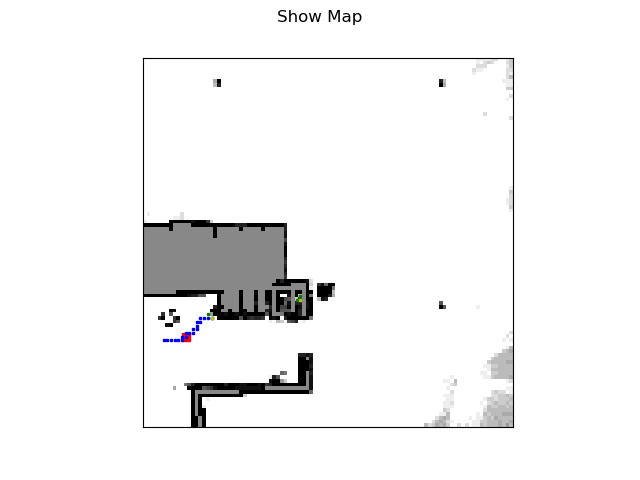
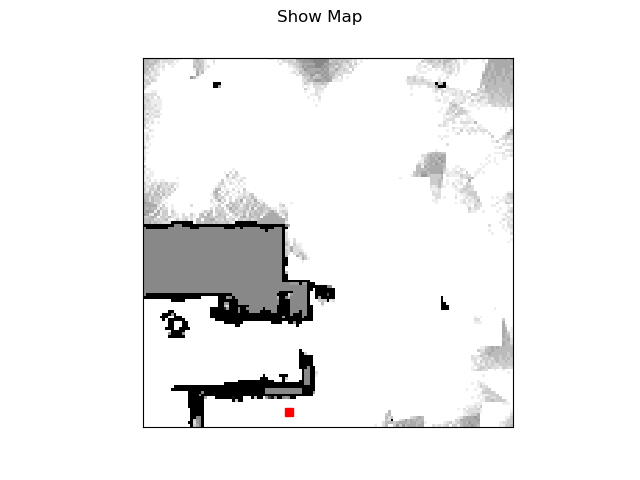
version finale 2.0 ?

diff --git a/src/Cartographer.py b/src/Cartographer.py
@@ -11,7 +11,7 @@ class Cartographer:
     """
 
     def __init__(self, xMin, xMax, yMin, yMax, showGUI):
-        self.CELL_SIZE = 0.4
+        self.CELL_SIZE = 0.3
         self.EMPTY = 0
         self.OCCUPIED = 1
         self.UNKNOWN = -1
@@ -21,6 +21,7 @@ class Cartographer:
         self.OCCUPIED_THRESHOLD = 7
         self.LASER_MAX_DISTANCE = 10
         self.LASER_MAX_ANGLE = 50
+        self.ROBOT_WIDTH = 0.8
 
         self.xMin = xMin
         self.xMax = xMax
@@ -61,12 +62,43 @@ class Cartographer:
         else:
             return self.UNKNOWN
 
+    def getSquaresInCircle(self, center, radius):
+        squares = set()
+        toProcess = [self.getGridPosition(center)]
+        while len(toProcess) > 0:
+            square = toProcess.pop()
+            pos = self.getRealPosition(square)
+            if getDistance(pos, center) < radius:
+                squares.add(square)
+                for i in range(-1, 2):
+                    for j in range(-1, 2):
+                        neighbor = square[0] + i, square[1] + j
+                        if neighbor not in squares and not self.isOutOfBound(neighbor):
+                            toProcess.append(neighbor)
+        return squares
+
+    def increaseThickness(self, robot):
+        squares = self.getSquaresInCircle(robot.getPosition(), self.LASER_MAX_DISTANCE)
+        while len(squares) > 0:
+            square = squares.pop()
+            if self.getState(square) == self.OCCUPIED:
+                neighbors = self.getSquaresInCircle(self.getRealPosition(square), self.ROBOT_WIDTH)
+                squares -= neighbors
+                for neighbor in neighbors:
+                    if self.getState(neighbor) == self.OCCUPIED:
+                        path = pathToObstacle(square, neighbor)
+                        for (row, col) in path:
+                            self.map[row][col] = min(self.MAXVALUE, self.map[row][col] + 3)
+
     def update(self, robot):
         """
         Updates the map representation
         :param robot: Robot object
         """
+        if self.isOutOfBound(self.getGridPosition(robot.getPosition())):
+            return
         self.handleLasers(robot)
+        self.increaseThickness(robot)
         row, col = self.getGridPosition(robot.getPosition())
         self.showMap.updateMap(self.map, self.MAXVALUE, row, col)
 
@@ -112,6 +144,8 @@ class Cartographer:
                             neighborRow, neighborCol = x + i, y + j
                             if not self.isOutOfBound((neighborRow, neighborCol)):
                                 sum += self.map[neighborRow][neighborCol] * GROMask[1 + i][1 + j]
+                                # Increase thickness of obstacles
+                                # self.map[neighborRow][neighborCol] = min(self.MAXVALUE, self.map[neighborRow][neighborCol] + 3)
                     self.map[x][y] = min(self.MAXVALUE, sum)
                 else:
                     self.map[x][y] = max(self.MINVALUE, self.map[x][y] - 1)

diff --git a/src/Controller.py b/src/Controller.py
@@ -1,6 +1,6 @@
 from robot import Robot
 from Computations import *
-from math import pi
+from math import pi, atan2
 from numpy import sign
 from random import random
 import time
@@ -17,9 +17,9 @@ class Controller:
         self.alpha = 0
         self.v = 1
         # lookahead distance
-        self.L = 4
+        self.L = 2
         self.offset = 0
-        self.DISTANCE_UPDATE = 4
+        self.DISTANCE_UPDATE = 6
         self.distanceTravelled = 0
         self.LASER_ANGLE = 8
         self.OBSTACLE_MAX_DIST = 2
@@ -32,6 +32,16 @@ class Controller:
         If an obstacle is encountered, the robot is stopped
         :return:
         """
+        # pos = self.cartographer.getGridPosition(robot.getPosition())
+        # heading = robot.getHeading()
+        # angle = atan2(heading["Y"], heading["X"])
+        # neighbors = [(-2, 0), (-2, -2), (0, -2), (2, -2), (2, 0), (2, 2), (0, 2), (-2, 2)]
+        # index = (round(angle * 4 / pi) + 4) % 8
+        # headingSquare = pos[0] + neighbors[index][0], pos[1] + neighbors[index][1]
+        # if not self.cartographer.isOutOfBound(headingSquare) \
+        #         and self.cartographer.getState(headingSquare) == self.cartographer.OCCUPIED:
+        #     robot.setMotion(0, 0)
+        #     return True
         lasers = robot.getLaser()
         for i in range(len(lasers['Echoes']) // 2 - self.LASER_ANGLE,
                        len(lasers['Echoes']) // 2 + self.LASER_ANGLE):
@@ -117,6 +127,8 @@ class Controller:
         while run:
             robot.setMotion(0, 2 * pi * random())
             time.sleep(1)
+            robot.setMotion(0, 0)
+            self.cartographer.update(robot)
             if not self.checkObstacle(robot):
                 run = False
                 for _ in range(self.WANDERING_DISTANCE):
@@ -124,6 +136,5 @@ class Controller:
                     time.sleep(0.5)
                     robot.setMotion(0, 0)
                     self.checkDistanceTravelled(robot, self.OBSTACLE_MAX_DIST)
-                    robotPos = self.cartographer.getGridPosition(robot.getPosition())
-                    if self.checkObstacle(robot) or self.cartographer.isOutOfBound(robotPos):
+                    if self.checkObstacle(robot):
                         break

diff --git a/src/Navigator.py b/src/Navigator.py
@@ -20,6 +20,8 @@ class Navigator:
         :return: a list of neighboring squares (Von Neumann), robot position not included
         """
         wave = self.wave(robot, dest)
+        if not wave:
+            return None
         path = self.findPath(len(wave), wave, [dest])
         # If no path is found
         if not path:
@@ -80,6 +82,8 @@ class Navigator:
             nextLayer = self.cartographer.getNextLayer(nextLayer, inside)
             # remove redundant elements
             nextLayer = list(set(nextLayer))
+        if not nextLayer:
+            return None
         return wave
 
     def convertPath(self, path):
@@ -109,7 +113,7 @@ class Navigator:
         :param dest: square to reach
         """
         if attempt >= self.MAX_ATTEMPT:
-            self.cartographer.map[dest[0]][dest[1]] = 15
+            self.cartographer.map[dest[0]][dest[1]] = self.cartographer.MAXVALUE
             return
         # If the robot has already reached the destination, a new destination needs to be computed
         if self.reachedDestination(robot, dest):
@@ -118,7 +122,7 @@ class Navigator:
 
         path = self.computePath(robot, dest)
         if not path:
-            self.cartographer.map[dest[0]][dest[1]] = 15
+            self.cartographer.map[dest[0]][dest[1]] = self.cartographer.MAXVALUE
             self.controller.wander(robot)
             return
         path = self.convertPath(path)

diff --git a/src/PlanningModule.py b/src/PlanningModule.py
@@ -11,6 +11,7 @@ class PlanningModule:
         self.cartographer = cartographer
         self.navigator = navigator
         self.controller = controller
+        self.MIN_BORDER_SIZE = 3
     
     @staticmethod
     def getDistanceSquares(s, t):
@@ -44,7 +45,8 @@ class PlanningModule:
         robotPosition = self.cartographer.getGridPosition(robot.getPosition())
         medians = []
         for border in borders:
-            medians.append(self.getMedian(border))
+            if len(border) > self.MIN_BORDER_SIZE:
+                medians.append(self.getMedian(border))
         # Pick the closest median to the robot that is not an obstacle
         closestMedian = self.getNonObstacle(medians)
         if not closestMedian:

diff --git a/src/Main.py b/src/Main.py
@@ -2,11 +2,12 @@ from Cartographer import Cartographer
 from PlanningModule import PlanningModule
 from Navigator import Navigator
 from Controller import Controller
-from show_map import ShowMap
 from robot import Robot
+from time import time
 
 
 def main():
+    startTime = time()
     robot = Robot()
     cartographer = Cartographer(-20, 20, -20, 20, True)
     cartographer.update(robot)
@@ -17,6 +18,7 @@ def main():
         if not planningModule.move(robot):
             break
     cartographer.showMap.close()
+    print("time: ", time() - startTime)
 
 if __name__ == "__main__":
     main()
